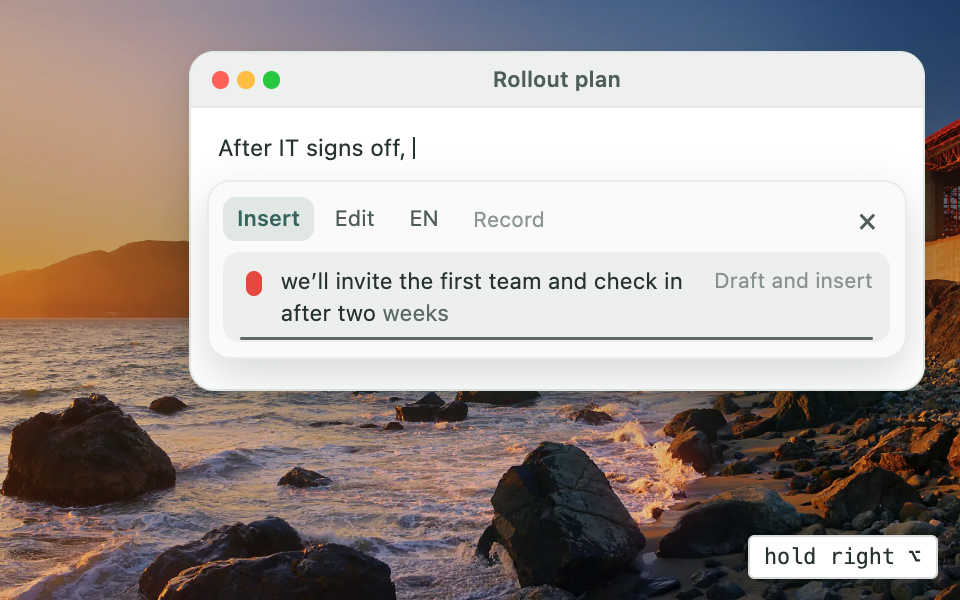
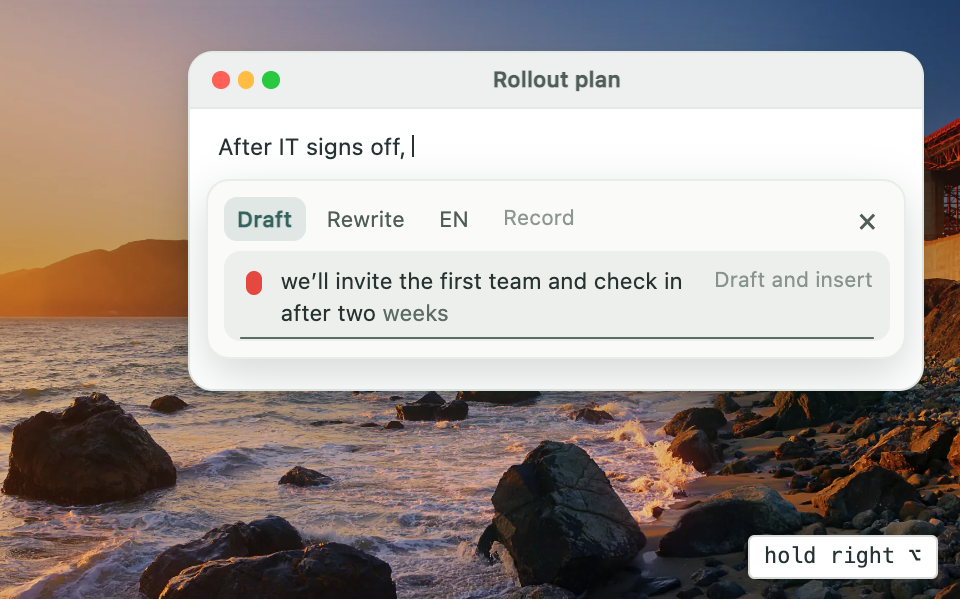
fix(rewrite): rename writing modes to Draft and Rewrite
Both modes can replace selected text. Name them for the user's intent: Draft creates text from a prompt, while Rewrite revises existing text.

diff --git a/Packages/RemoraKit/Sources/Assistant/Tools/FeatureGuide.swift b/Packages/RemoraKit/Sources/Assistant/Tools/FeatureGuide.swift
@@ -111,7 +111,7 @@ public enum FeatureGuide {
             sent to the language model you signed in to (your ChatGPT account).
 
             - **Rewrite key:** double-tap right ⌥ to rewrite selected text or draft at the caret.
-            - **Writing popover:** tap the key. With a selection it opens in Edit; otherwise it opens in Insert.
+            - **Writing popover:** tap the key. It opens in Rewrite for a selection or Draft at the cursor.
             - **Ask in a field:** type `/q` and a question, then double-tap the key; the answer replaces it.
             - **Dictation:** hold the rewrite key to talk. The live transcript appears in the writing popover.
             - **Chat bar:** a slim bar under the notch; chat with your memory, set reminders, change settings.
@@ -134,12 +134,12 @@ public enum FeatureGuide {
             fields and password managers are refused with a beep. An optional fallback shortcut \
             (⇧⌘G, off by default) and the sounds are in Settings › Shortcuts.
             """),
-        GuideSection(id: "edit-mode", title: "Edit mode", body: """
-            Select text and tap the rewrite key to open the writing popover in Edit. Type an instruction \
+        GuideSection(id: "edit-mode", title: "Draft and Rewrite", body: """
+            Select text and tap the rewrite key to open the writing popover in Rewrite. Type an instruction \
             such as "shorter" or "translate to French", then press Return or choose Rewrite selection. \
-            With no selection, the popover opens in Insert. Type what you want written and press Return \
-            to draft and insert it at the caret. Where field text must stay on-device, Insert \
-            can use ChatGPT with only the prompt you submit. In Edit, the popover stays open for more rounds. \
+            With no selection, the popover opens in Draft. Type what you want written and press Return \
+            to draft and insert it at the caret. Where field text must stay on-device, Draft \
+            can use ChatGPT with only the prompt you submit. In Rewrite, the popover stays open for more rounds. \
             Tap the rewrite key to switch modes. Esc or a click outside closes the popover. \
             Configure gestures in Settings › Shortcuts.
             """),
@@ -151,8 +151,8 @@ public enum FeatureGuide {
         GuideSection(id: "dictation", title: "Dictation", body: """
             Off by default: turn it on in Settings › Dictation. Hold the rewrite key to speak. The \
             writing popover shows the live transcript using your Mac. Release to review the final \
-            text in Insert mode. Press Return to draft from the spoken prompt, or choose Insert transcript \
-            to put the words into the field. Switch to Edit to apply a spoken instruction to existing text. \
+            text in Draft mode. Press Return to draft from the spoken prompt, or choose Insert transcript \
+            to put the words into the field. Switch to Rewrite to apply a spoken instruction to existing text. \
             Esc discards the draft. For hands-free dictation, click the microphone beside the Return arrow, then click Stop to finish.
 
             For Mac speech recognition, pick English or French in the menu bar or let Remora use \
@@ -314,7 +314,7 @@ public enum FeatureGuide {
               and sites need **Manual saves only** in Privacy. You can also paste, search or delete
               notes in Memory. Optional chat access can send relevant excerpts to OpenAI.
             - **Notifications:** proactive messages on or off, macOS notification permission, a test notification.
-            - **Shortcuts:** rewrite key, Edit mode, fallback shortcut, sounds.
+            - **Shortcuts:** rewrite key, writing popover, fallback shortcut, sounds.
             - **Dictation:** on or off, language, optional OpenAI transcription, cleanup.
             - **Meeting sources:** connect Quill, Granola or a compatible local server, and search or \
               forget imported meetings. Optional chat access lets Remora send imported excerpts to OpenAI. \
@@ -330,12 +330,12 @@ public enum FeatureGuide {
             The chat can change some settings when you ask (it tells you what changed and offers undo).
             """),
         GuideSection(id: "shortcuts", title: "Shortcuts", body: """
-            - **Right ⌥ tap:** open the writing popover in Edit for a selection, or Insert at the caret.
+            - **Right ⌥ tap:** open the writing popover in Rewrite for a selection, or Draft at the caret.
             - **Right ⌥ double-tap:** rewrite the selection, draft at the caret, or answer `/q`. Opens chat outside a text field.
-            - **Right ⌥ hold:** dictate into the popover in Insert when dictation is on.
-            - **Right ⌥ tap in the popover:** switch between Insert and Edit.
+            - **Right ⌥ hold:** dictate into the popover in Draft when dictation is on.
+            - **Right ⌥ tap in the popover:** switch between Draft and Rewrite.
             - **⇧⌘G:** fallback shortcut, off by default (it is also Find Previous in many apps).
-            - **Esc:** cancel a rewrite or close Edit mode.
+            - **Esc:** cancel a rewrite or close the writing popover.
 
             Change them in Settings › Shortcuts. Quit Goldfish while using Remora: both use right ⌥.
             """),

diff --git a/docs/site/pages/home.html b/docs/site/pages/home.html
@@ -59,9 +59,9 @@
               </div>
               <div class="demo-document">
                 <p class="demo-note-title">Email draft to Maya</p>
-                <section class="demo-remora demo-editor" aria-label="Remora Edit popover">
+                <section class="demo-remora demo-editor" aria-label="Remora Rewrite popover">
                   <div class="demo-toolbar" aria-hidden="true">
-                    <span>Insert</span><span class="demo-selected">Edit</span><span>Record</span><span class="demo-dismiss">×</span>
+                    <span>Draft</span><span class="demo-selected">Rewrite</span><span>Record</span><span class="demo-dismiss">×</span>
                   </div>
                   <div class="demo-composer demo-edit-composer">
                     <span class="demo-glyph" aria-hidden="true"></span>
@@ -82,9 +82,9 @@
               </div>
               <div class="demo-document">
                 <p class="demo-note-title">Internal rollout plan</p>
-                <section class="demo-remora demo-editor" aria-label="Remora dictation in the Insert popover">
+                <section class="demo-remora demo-editor" aria-label="Remora dictation in the Draft popover">
                   <div class="demo-toolbar" aria-hidden="true">
-                    <span class="demo-selected">Insert</span><span>Edit</span><span>Record</span><span class="demo-dismiss">×</span>
+                    <span class="demo-selected">Draft</span><span>Rewrite</span><span>Record</span><span class="demo-dismiss">×</span>
                   </div>
                   <div class="demo-composer demo-edit-composer">
                     <span class="demo-glyph" aria-hidden="true"></span>
@@ -132,7 +132,7 @@
         <a href="@ROOT@docs/rewrite/#choose-what-to-rewrite">The rewrite key</a>
       </article>
       <article>
-        <figure class="shot shot-popover" aria-label="The writing popover in Insert, drafting at the caret, and in Edit, rewriting a selection">
+        <figure class="shot shot-popover" aria-label="The writing popover in Draft, drafting at the caret, and in Rewrite, rewriting a selection">
           <img class="shot-backdrop" src="@ROOT@assets/golden-gate.webp" alt="" width="1920" height="1080" loading="lazy">
           <div class="demo-window shot-window" aria-hidden="true">
             <div class="demo-titlebar">
@@ -143,7 +143,7 @@
               <p>Thanks for the call. <span class="demo-caret"></span></p>
               <section class="demo-remora demo-editor">
                 <div class="demo-toolbar">
-                  <span class="demo-selected">Insert</span><span>Edit</span><span class="demo-dismiss">×</span>
+                  <span class="demo-selected">Draft</span><span>Rewrite</span><span class="demo-dismiss">×</span>
                 </div>
                 <div class="demo-composer demo-edit-composer">
                   <span class="demo-glyph"></span>
@@ -154,7 +154,7 @@
               <p><mark>kickoff monday if IT is ready</mark></p>
               <section class="demo-remora demo-editor">
                 <div class="demo-toolbar">
-                  <span>Insert</span><span class="demo-selected">Edit</span><span class="demo-dismiss">×</span>
+                  <span>Draft</span><span class="demo-selected">Rewrite</span><span class="demo-dismiss">×</span>
                 </div>
                 <div class="demo-composer demo-edit-composer">
                   <span class="demo-glyph"></span>
@@ -166,9 +166,9 @@
           </div>
           <figcaption class="shot-keys"><kbd>right ⌥</kbd></figcaption>
         </figure>
-        <h3>Insert or edit with a prompt</h3>
-        <p>Tap right Option once to open the writing popover. Insert drafts new text at the cursor from your prompt. Edit applies your instruction to the selection. Tap again to switch modes.</p>
-        <a href="@ROOT@docs/rewrite/#edit-mode">Insert and Edit</a>
+        <h3>Draft or rewrite with a prompt</h3>
+        <p>Tap right Option once to open the writing popover. Draft writes new text from your prompt. Rewrite revises the selection or, with just a cursor, the whole field. Tap again to switch modes.</p>
+        <a href="@ROOT@docs/rewrite/#edit-mode">Draft and Rewrite</a>
       </article>
       <article>
         <figure class="shot shot-dictation" aria-label="The writing popover listening, with a live transcript under the caret">
@@ -182,7 +182,7 @@
               <p>After IT signs off, <span class="demo-caret"></span></p>
               <section class="demo-remora demo-editor">
                 <div class="demo-toolbar">
-                  <span class="demo-selected">Insert</span><span>Edit</span><span>EN</span><span class="shot-muted">Record</span><span class="demo-dismiss">×</span>
+                  <span class="demo-selected">Draft</span><span>Rewrite</span><span>EN</span><span class="shot-muted">Record</span><span class="demo-dismiss">×</span>
                 </div>
                 <div class="demo-composer demo-edit-composer">
                   <span class="shot-mic"></span>

diff --git a/docs/site/pages/rewrite.html b/docs/site/pages/rewrite.html
@@ -16,17 +16,17 @@
 <p>Place the caret (the text cursor) where you want to continue a sentence or fill a gap, then double-tap <kbd>right ⌥</kbd> without selecting anything. Remora uses the text before and after the caret to draft just the new words. In an empty field, it drafts from available context, such as the email thread you’re replying to.</p>
 <p>If the caret moves while Remora drafts, or if Remora can’t locate it in a field that already contains text, the write is skipped.</p>
 
-<h2 id="edit-mode">Edit mode</h2>
+<h2 id="edit-mode">Rewrite mode</h2>
 <ol>
-  <li>Select the text you want to change and tap <kbd>right ⌥</kbd> to open the writing popover in <strong>Edit</strong>.</li>
+  <li>Select the text you want to change and tap <kbd>right ⌥</kbd> to open the writing popover in <strong>Rewrite</strong>.</li>
   <li>In the popover, enter an instruction such as <code>Make this more direct</code> or <code>Translate to French</code>.</li>
   <li>Press <kbd>Return</kbd> or choose <strong>Rewrite selection</strong>. The popover stays open so you can refine the new text. Press <kbd>Esc</kbd> or click outside to close it.</li>
 </ol>
-<p>With no selection, tap <kbd>right ⌥</kbd> once to open the popover and again to switch to <strong>Edit</strong>. Enter an instruction and choose <strong>Apply as edit</strong> to edit the field. Use <kbd>⇧ Return</kbd> to add a line to an instruction and <strong>Undo</strong> or <kbd>⌘ Z</kbd> to undo the last edit while the popover is open.</p>
-<p>With <a href="@ROOT@docs/dictation/">dictation</a> enabled, hold <kbd>right ⌥</kbd> to speak an instruction, then release to review it. Select <strong>Edit</strong> before pressing <kbd>Return</kbd> to apply the instruction.</p>
+<p>With no selection, tap <kbd>right ⌥</kbd> once to open the popover and again to switch to <strong>Rewrite</strong>. Enter an instruction and choose <strong>Apply rewrite</strong> to rewrite the whole field. Use <kbd>⇧ Return</kbd> to add a line to an instruction and <strong>Undo</strong> or <kbd>⌘ Z</kbd> to undo the last edit while the popover is open.</p>
+<p>With <a href="@ROOT@docs/dictation/">dictation</a> enabled, hold <kbd>right ⌥</kbd> to speak an instruction, then release to review it. Select <strong>Rewrite</strong> before pressing <kbd>Return</kbd> to apply the instruction.</p>
 
-<h2 id="insert-text">Insert text</h2>
-<p>With no selection, tap <kbd>right ⌥</kbd> to open the popover in <strong>Insert</strong>. Type or dictate what you want Remora to write, then choose <strong>Draft and insert</strong> or press <kbd>Return</kbd>. To draft a replacement for a selection, switch to <strong>Insert</strong> before submitting. Choose <strong>Insert transcript</strong> to put your spoken words into the field.</p>
+<h2 id="insert-text">Draft text</h2>
+<p>With no selection, tap <kbd>right ⌥</kbd> to open the popover in <strong>Draft</strong>. Type or dictate what you want Remora to write, then choose <strong>Draft and insert</strong> or press <kbd>Return</kbd>. To draft a replacement for a selection, switch to <strong>Draft</strong> before submitting. Choose <strong>Insert transcript</strong> to put your spoken words into the field.</p>
 
 <h2 id="ask-in-a-field">Ask in a field</h2>
 <p>At the start of an empty field, type a question after <code>/q</code> and double-tap the rewrite key.</p>

diff --git a/docs/site/pages/quickstart.html b/docs/site/pages/quickstart.html
@@ -4,7 +4,7 @@
 <ol>
   <li>Choose <strong>Settings › General › Show onboarding again</strong> and continue to <strong>Try the key</strong>, or focus a supported text field in another app.</li>
   <li>Enter the example below, select it, and tap <kbd>right ⌥</kbd> once to open the writing popover.</li>
-  <li>With <strong>Edit</strong> selected, type <code>Keep it to one sentence</code>, then choose <strong>Rewrite selection</strong> or press <kbd>Return</kbd>.</li>
+  <li>With <strong>Rewrite</strong> selected, type <code>Keep it to one sentence</code>, then choose <strong>Rewrite selection</strong> or press <kbd>Return</kbd>.</li>
 </ol>
 <pre><code>hey sam can we move the review to thurs? need a bit more time with the draft</code></pre>
 <p>The result goes back into the original field. The popover stays open for another instruction. Press <kbd>Esc</kbd> to close it.</p>
@@ -13,7 +13,7 @@
 <p>With the popover closed, select text and double-tap <kbd>right ⌥</kbd> to rewrite it directly. To <a href="@ROOT@docs/rewrite/#draft-at-the-caret">continue what you wrote</a>, place the cursor at the end of an unfinished sentence and double-tap with no selection. Try the same gesture in the middle of a sentence to fill a gap. Use <kbd>⌘ Z</kbd> in apps that support undo.</p>
 
 <h2 id="try-dictation">Try dictation</h2>
-<p><a href="@ROOT@docs/dictation/#enable-dictation">Enable dictation</a>, then close the writing popover and hold <kbd>right ⌥</kbd> in a text field. The popover opens in <strong>Insert</strong> and shows your transcript as you speak. Release to review it. Press <kbd>Return</kbd> to draft from what you said, or choose <strong>Insert transcript</strong> to put your words into the field.</p>
+<p><a href="@ROOT@docs/dictation/#enable-dictation">Enable dictation</a>, then close the writing popover and hold <kbd>right ⌥</kbd> in a text field. The popover opens in <strong>Draft</strong> and shows your transcript as you speak. Release to review it. Press <kbd>Return</kbd> to draft from what you said, or choose <strong>Insert transcript</strong> to put your words into the field.</p>
 
 <h2 id="open-chat">Open chat</h2>
 <p>Click the <a href="@ROOT@docs/chat/#open-the-chat-bar">chat bar</a> at the top of your screen or choose <strong>Open chat</strong> from the Remora menu. Try “How do I stop Remora from capturing a site?” Once you have used your Mac with capture on, ask something about that activity, such as “Which document was I reading before this?” A new installation has little history to draw from.</p>

diff --git a/docs/site/pages/shortcuts.html b/docs/site/pages/shortcuts.html
@@ -4,11 +4,11 @@
 <table>
   <thead><tr><th scope="col">Gesture</th><th scope="col">Action</th></tr></thead>
   <tbody>
-    <tr><td>Tap <kbd>right ⌥</kbd></td><td>Open the writing popover in Edit for a selection or Insert at the caret. Click the microphone beside the Return arrow for hands-free dictation.</td></tr>
+    <tr><td>Tap <kbd>right ⌥</kbd></td><td>Open the writing popover in Rewrite for a selection or Draft at the caret. Click the microphone beside the Return arrow for hands-free dictation.</td></tr>
     <tr><td>Double-tap <kbd>right ⌥</kbd></td><td>Rewrite the selection, draft at the caret, or answer a <code>/q</code> question in place. Opens chat outside a text field in supported contexts.</td></tr>
-    <tr><td>Hold <kbd>right ⌥</kbd></td><td>Record when dictation is enabled. Opens a closed popover in Insert or keeps the mode if it is already open. Release to review. With dictation off, hold and release to open Edit.</td></tr>
-    <tr><td>Tap <kbd>right ⌥</kbd> in the popover</td><td>Switch between Insert and Edit.</td></tr>
-    <tr><td><kbd>Return</kbd> in the popover</td><td>Draft from a typed or spoken Insert prompt, or apply an edit instruction.</td></tr>
+    <tr><td>Hold <kbd>right ⌥</kbd></td><td>Record when dictation is enabled. Opens a closed popover in Draft or keeps the mode if it is already open. Release to review. With dictation off, hold and release to open Rewrite.</td></tr>
+    <tr><td>Tap <kbd>right ⌥</kbd> in the popover</td><td>Switch between Draft and Rewrite.</td></tr>
+    <tr><td><kbd>Return</kbd> in the popover</td><td>Submit your typed or spoken prompt in Draft, or apply your instruction in Rewrite.</td></tr>
     <tr><td><kbd>⇧ Return</kbd> in the popover</td><td>Add a new line to the draft.</td></tr>
     <tr><td><kbd>Esc</kbd></td><td>Cancel an active rewrite or discard the popover draft and close it.</td></tr>
     <tr><td><kbd>⇧ ⌘ G</kbd></td><td>Fallback rewrite shortcut. Off by default.</td></tr>

diff --git a/App/Remora/Settings/ShortcutsSettingsView.swift b/App/Remora/Settings/ShortcutsSettingsView.swift
@@ -2,7 +2,7 @@ import AppKit
 import Input
 import SwiftUI
 
-/// Settings › Shortcuts: the rewrite key, Edit-mode gestures, the fallback chord and sounds.
+/// Settings › Shortcuts: the rewrite key, Rewrite-mode gestures, the fallback chord and sounds.
 /// Every change is saved and applied at once.
 struct ShortcutsSettingsView: View {
     let rewrite: RewriteController
@@ -25,7 +25,7 @@ struct ShortcutsSettingsView: View {
                     ForEach(TriggerKey.allCases, id: \.self) { Text($0.title).tag($0) }
                 }
                 .disabled(!s.rewriteKeyEnabled)
-                Text("Tap to open the popover in Insert or Edit, depending on the selection. Double-tap to rewrite selected text or draft at the caret.")
+                Text("Tap to open Draft at the cursor or Rewrite when text is selected. Double-tap to rewrite selected text or draft at the caret.")
                     .font(.footnote).foregroundStyle(.secondary)
                 if let status = rewrite.statusLine {
                     Text(status).font(.footnote).foregroundStyle(.orange)
@@ -34,7 +34,7 @@ struct ShortcutsSettingsView: View {
             Section("Writing popover") {
                 Toggle("Double-tap writes in place", isOn: binding(\.doubleTapRewrites))
                 Toggle("Hold opens the popover", isOn: binding(\.holdOpensEdit))
-                Text("With dictation enabled, holding records speech. Tap the key while the popover is open to switch between Insert and Edit.")
+                Text("With dictation enabled, holding records speech. Tap the key while the popover is open to switch between Draft and Rewrite.")
                     .font(.footnote).foregroundStyle(.secondary)
             }
             .disabled(!s.rewriteKeyEnabled)

diff --git a/docs/site/pages/dictation.html b/docs/site/pages/dictation.html
@@ -6,11 +6,11 @@
   <li>Under <strong>Speech models</strong>, download the language you want to use if macOS has not installed it yet.</li>
 </ol>
 
-<h2 id="speak-and-insert">Insert or edit with your voice</h2>
+<h2 id="speak-and-insert">Draft or rewrite with your voice</h2>
 <ol>
-  <li>Focus a text field and hold <kbd>right ⌥</kbd> while you speak. A closed popover opens in <strong>Insert</strong>. If the popover is already open, it keeps the selected mode.</li>
+  <li>Focus a text field and hold <kbd>right ⌥</kbd> while you speak. A closed popover opens in <strong>Draft</strong>. If the popover is already open, it keeps the selected mode.</li>
   <li>Release to finish recording. Review the transcript and correct any words in the popover.</li>
-  <li>In <strong>Insert</strong>, press <kbd>Return</kbd> to draft from what you said, or choose <strong>Insert transcript</strong> to put your words into the field. Switch to <strong>Edit</strong> to apply a spoken instruction to existing text. Press <kbd>Esc</kbd> to discard the draft.</li>
+  <li>In <strong>Draft</strong>, press <kbd>Return</kbd> to draft from what you said, or choose <strong>Insert transcript</strong> to put your words into the field. Switch to <strong>Rewrite</strong> to apply a spoken instruction to existing text. Press <kbd>Esc</kbd> to discard the draft.</li>
 </ol>
 <p>For hands-free dictation, tap <kbd>right ⌥</kbd> to open the popover. Choose <strong>Record</strong> to start and <strong>Stop</strong> to review the transcript. Tap the key or choose a mode in the popover before submitting.</p>
 

diff --git a/App/Remora/Rewrite/EditBarPanel.swift b/App/Remora/Rewrite/EditBarPanel.swift
@@ -65,7 +65,7 @@ final class EditBarPanel {
 
         var inputLabel: String {
             switch submission {
-            case .edit: "Edit instruction"
+            case .edit: "Rewrite instruction"
             case .compose: draftIsSpoken ? "Dictated prompt" : "Drafting prompt"
             case .insertText: "Text to insert"
             }
@@ -366,13 +366,13 @@ struct EditBarView: View {
     private var controls: some View {
         HStack(spacing: 4) {
             HStack(spacing: 2) {
-                modeButton("Insert", mode: .insert)
-                if model.allowsEdit { modeButton("Edit", mode: .edit) }
+                modeButton("Draft", mode: .insert)
+                if model.allowsEdit { modeButton("Rewrite", mode: .edit) }
             }
             .accessibilityRepresentation {
-                Picker("Use text to", selection: $model.mode) {
-                    Text("Insert").tag(EditVoiceRoute.Mode.insert)
-                    if model.allowsEdit { Text("Edit").tag(EditVoiceRoute.Mode.edit) }
+                Picker("Writing mode", selection: $model.mode) {
+                    Text("Draft").tag(EditVoiceRoute.Mode.insert)
+                    if model.allowsEdit { Text("Rewrite").tag(EditVoiceRoute.Mode.edit) }
                 }
                 .pickerStyle(.segmented)
             }

diff --git a/App/Remora/Rewrite/CaretIndicatorPanel.swift b/App/Remora/Rewrite/CaretIndicatorPanel.swift
@@ -50,7 +50,7 @@ final class CaretIndicatorPanel {
         show(.working, kind: .working(onCancel: onCancel), in: field)
     }
 
-    /// The subtle hint while the rewrite key is held (Edit mode on release).
+    /// The subtle hint while the rewrite key is held (Rewrite mode on release).
     func showHint(in field: FocusedField) {
         show(.hint, kind: .hint, in: field)
     }
@@ -141,7 +141,7 @@ struct IndicatorView: View {
                         .foregroundStyle(RemoraBrand.accent(scheme).opacity(0.6))
                 }
                 .frame(width: CaretIndicatorPanel.hintSize.width, height: CaretIndicatorPanel.hintSize.height)
-                .accessibilityLabel("Release to open Edit mode")
+                .accessibilityLabel("Release to open Rewrite mode")
         case .notice(let notice, let width, let onAction, let onDismiss):
             WritingNoticeView(notice: notice, onAction: onAction)
                 // Give the text its final width before the hosting view measures the wrapped height.

diff --git a/App/Remora/Settings/DictationSettingsView.swift b/App/Remora/Settings/DictationSettingsView.swift
@@ -44,7 +44,7 @@ struct DictationSettingsView: View {
                 Toggle("Enable voice dictation", isOn: enabledBinding)
             }
             Section("Shortcut") {
-                Text("Hold the rewrite key to dictate and release to review. Press Return in Insert to draft from your prompt, or choose Insert transcript to use your words.")
+                Text("Hold the rewrite key to dictate and release to review. Press Return in Draft to draft from your prompt, or choose Insert transcript to use your words.")
                     .font(.footnote).foregroundStyle(.secondary)
                 Text("For hands-free dictation, tap the key to open the popover, then click the microphone beside the Return arrow.")
                     .font(.footnote).foregroundStyle(.secondary)

diff --git a/docs/site/pages/overview.html b/docs/site/pages/overview.html
@@ -8,7 +8,7 @@
 
 <h2 id="guides">Guides</h2>
 <div class="topic-grid">
-  <a href="@ROOT@docs/rewrite/"><strong>Rewrite and Edit mode</strong><span>Rewrite a selection, draft from context, or give an instruction.</span></a>
+  <a href="@ROOT@docs/rewrite/"><strong>Draft and Rewrite</strong><span>Rewrite a selection, draft from context, or give an instruction.</span></a>
   <a href="@ROOT@docs/dictation/"><strong>Voice dictation</strong><span>Transcribe English or French on your Mac.</span></a>
   <a href="@ROOT@docs/chat/"><strong>Chat</strong><span>Recall what you saw and ask Remora to take an action.</span></a>
   <a href="@ROOT@docs/memory/"><strong>Memory and activity</strong><span>Browse chronicles, wiki pages, and time by project.</span></a>

diff --git a/Packages/RemoraKit/Tests/LLMTests/UsageDashboardTests.swift b/Packages/RemoraKit/Tests/LLMTests/UsageDashboardTests.swift
@@ -30,7 +30,7 @@ import Storage
         }
         #expect(UsageLabels.job("hour_chronicle") == "Hour summary")
         #expect(UsageLabels.job("rewrite") == "Rewrite")
-        #expect(UsageLabels.job("edit_mode") == "Edit mode")
+        #expect(UsageLabels.job("edit_mode") == "Draft and Rewrite")
         #expect(UsageLabels.job("chat") == "Chat")
         #expect(UsageLabels.job("dictation_cleanup") == "Dictation cleanup")
         #expect(UsageCategory.of(jobType: "rewrite") == .writing)
